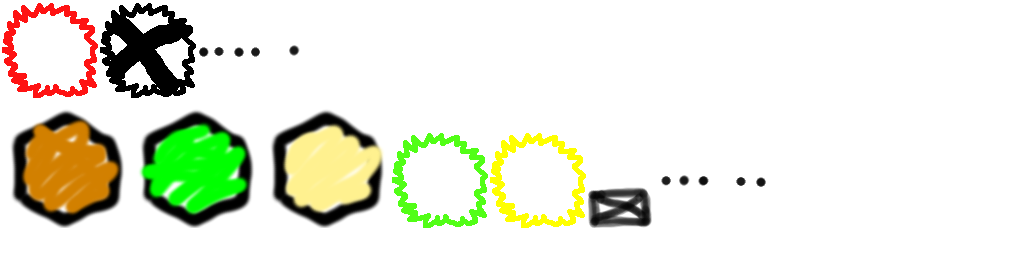
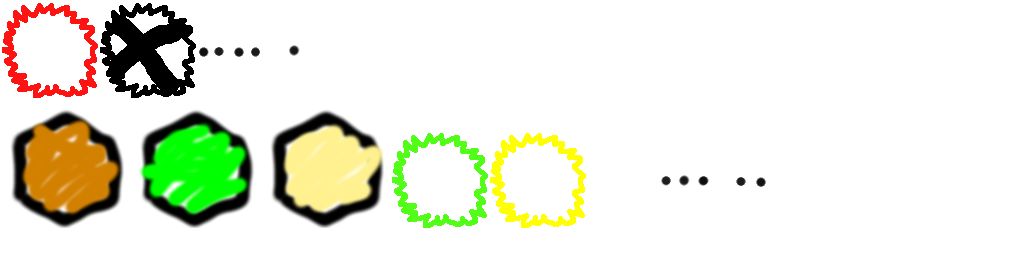
units are now have the color of their owner, fixed a bug which resulted in sometimes not being able to detect if the target is an entity, moved traversable to the TileType instead of the TileComponent

Changed region(s): [[0.5625, 0.7188, 0.6562, 0.9062]]

diff --git a/core/src/net/matthiasauer/abocr/map/unit/UnitRenderSystem.java b/core/src/net/matthiasauer/abocr/map/unit/UnitRenderSystem.java
@@ -16,12 +16,14 @@ import net.matthiasauer.abocr.graphics.RenderLayer;
 import net.matthiasauer.abocr.graphics.RenderPositionUnit;
 import net.matthiasauer.abocr.graphics.texture.TextureContainer;
 import net.matthiasauer.abocr.input.base.touch.InputTouchTargetComponent;
+import net.matthiasauer.abocr.map.owner.MapElementOwnerComponent;
 
 public class UnitRenderSystem extends IteratingSystem {
 	@SuppressWarnings("unchecked")
 	private static final Family family =
 			Family.all(UnitComponent.class).get();
 	private final ComponentMapper<UnitComponent> unitComponentMapper;
+	private final ComponentMapper<MapElementOwnerComponent> mapElementOwnerComponentMapper;
 	private final TextureContainer<UnitType> unitTypeTextureContainer;
 	private final TextureContainer<UnitStrength> unitStrengthTextureContainer;
 	private PooledEngine engine;
@@ -41,6 +43,8 @@ public class UnitRenderSystem extends IteratingSystem {
 
 		this.unitComponentMapper =
 				ComponentMapper.getFor(UnitComponent.class);
+		this.mapElementOwnerComponentMapper =
+				ComponentMapper.getFor(MapElementOwnerComponent.class);
 		this.renderTargets = new LinkedList<Entity>();
 	}
 	
@@ -75,6 +79,10 @@ public class UnitRenderSystem extends IteratingSystem {
 	private void displayCounterAndMakeItClickable(Entity entity, UnitComponent unitComponent) {
 		AtlasRegion typeTexture =
 				this.unitTypeTextureContainer.get(unitComponent.type);
+		MapElementOwnerComponent ownerComponent =
+				this.mapElementOwnerComponentMapper.get(entity);
+		
+		
 		RenderComponent typeRenderComponent =
 				this.engine.createComponent(RenderComponent.class).set(
 						unitComponent.x,
@@ -83,7 +91,7 @@ public class UnitRenderSystem extends IteratingSystem {
 						RenderPositionUnit.Tiles,
 						typeTexture,
 						RenderLayer.UnitType,
-						null);
+						ownerComponent.owner.color);
 
 		entity.add(typeRenderComponent);
 		

diff --git a/core/src/net/matthiasauer/abocr/map/unit/interaction/select/UnitSelectionMovementTargetRenderSystem.java b/core/src/net/matthiasauer/abocr/map/unit/interaction/select/UnitSelectionMovementTargetRenderSystem.java
@@ -75,19 +75,22 @@ public class UnitSelectionMovementTargetRenderSystem extends IteratingSystem {
 		TargetComponent targetComponent =
 				this.targetComponentMapper.get(entity);
 		
-		Color tint = Color.RED;
+		Color tint = null;
 		
-		switch (targetComponent.range) {
-		case 1:
-			tint = null;
-			break;
-		case 2:
-			tint = Color.LIGHT_GRAY;
-			break;
-		case 3:
-			tint = Color.DARK_GRAY;
-		default:
-			break;
+		// only for move
+		if (targetComponent.type == TargetType.Move) {
+			switch (targetComponent.range) {
+			case 1:
+				tint = null;
+				break;
+			case 2:
+				tint = Color.LIGHT_GRAY;
+				break;
+			case 3:
+				tint = Color.DARK_GRAY;
+			default:
+				break;
+			}
 		}
 
 		RenderComponent selectionTargetRenderComponent =

diff --git a/core/src/net/matthiasauer/abocr/map/unit/range/AdvancedRangeSystem.java b/core/src/net/matthiasauer/abocr/map/unit/range/AdvancedRangeSystem.java
@@ -61,10 +61,10 @@ public class AdvancedRangeSystem extends IteratingSystem {
 		MapElementOwnerComponent originEntityOwner =
 				this.mapElementOwnerComponentMapper.get(originEntity);
 		
-		if (tileComponent.traversable) {
+		if (tileComponent.tileType.traversable) {
 			// only add if the terrain is traversable !
 			Entity unitAtTile =
-					this.unitFastAccessSystem.getUnit(tileComponent.x, tileComponent.x);					
+					this.unitFastAccessSystem.getUnit(tileComponent.x, tileComponent.y);					
 			
 			if (unitAtTile == null) {
 				// no unit on the tile

diff --git a/core/src/net/matthiasauer/abocr/map/tile/TileComponent.java b/core/src/net/matthiasauer/abocr/map/tile/TileComponent.java
@@ -8,7 +8,6 @@ public class TileComponent implements Component, Poolable {
 	public int y;
 	public TileType tileType;
 	public boolean receivesInput;
-	public boolean traversable;
 	
 	@Override
 	public void reset() {
@@ -16,6 +15,5 @@ public class TileComponent implements Component, Poolable {
 		this.y = -1;
 		this.tileType = null;
 		this.receivesInput = false;
-		this.traversable = false;
 	}
 }

diff --git a/core/src/net/matthiasauer/abocr/map/owner/Owner.java b/core/src/net/matthiasauer/abocr/map/owner/Owner.java
@@ -1,7 +1,15 @@
 package net.matthiasauer.abocr.map.owner;
 
+import com.badlogic.gdx.graphics.Color;
+
 public enum Owner {
-	Player1,
-	Player2,
-	Neutral
+	Player1(Color.BLUE),
+	Player2(Color.RED),
+	Neutral(Color.LIGHT_GRAY);
+	
+	public final Color color;
+	
+	Owner(Color color) {
+		this.color = color;
+	}
 }

diff --git a/core/src/net/matthiasauer/abocr/map/MapView.java b/core/src/net/matthiasauer/abocr/map/MapView.java
@@ -159,7 +159,6 @@ public class MapView extends ScreenAdapter {
 				tileComponent.y = y;
 				tileComponent.tileType = choice(TileType.values());
 				tileComponent.receivesInput = true;
-				tileComponent.traversable = random.nextBoolean();
 
 				tile.add(tileComponent);
 				tile.add(new ClickableComponent());

diff --git a/core/src/net/matthiasauer/abocr/map/tile/TileType.java b/core/src/net/matthiasauer/abocr/map/tile/TileType.java
@@ -1,7 +1,13 @@
 package net.matthiasauer.abocr.map.tile;
 
 public enum TileType {
-	Dirt,
-	Grass,
-	Sand
+	Dirt(true),
+	Grass(true),
+	Sand(false);
+	
+	public boolean traversable;
+	
+	private TileType(boolean traversable) {
+		this.traversable = traversable;
+	}
 }
